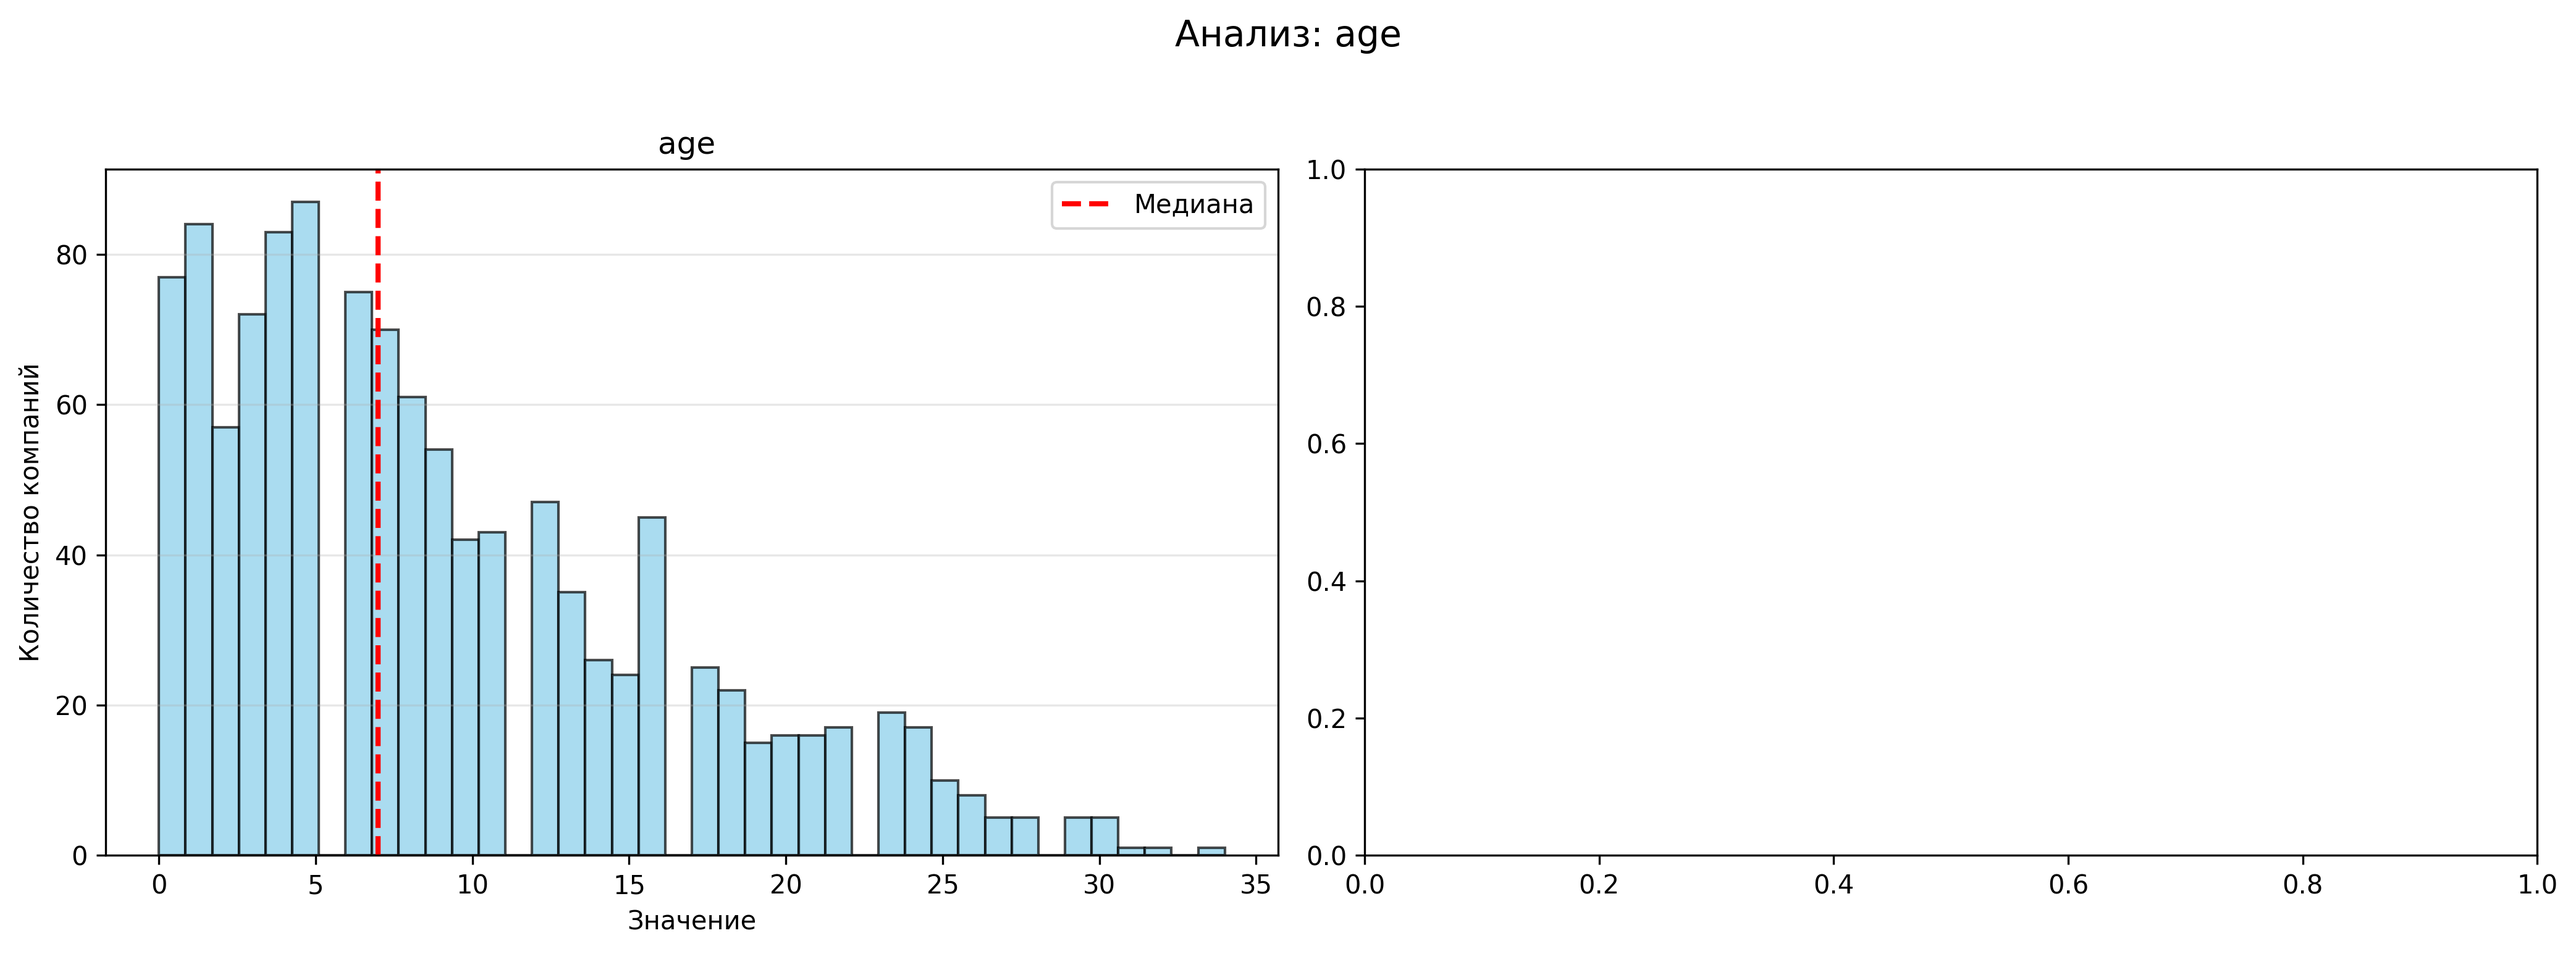
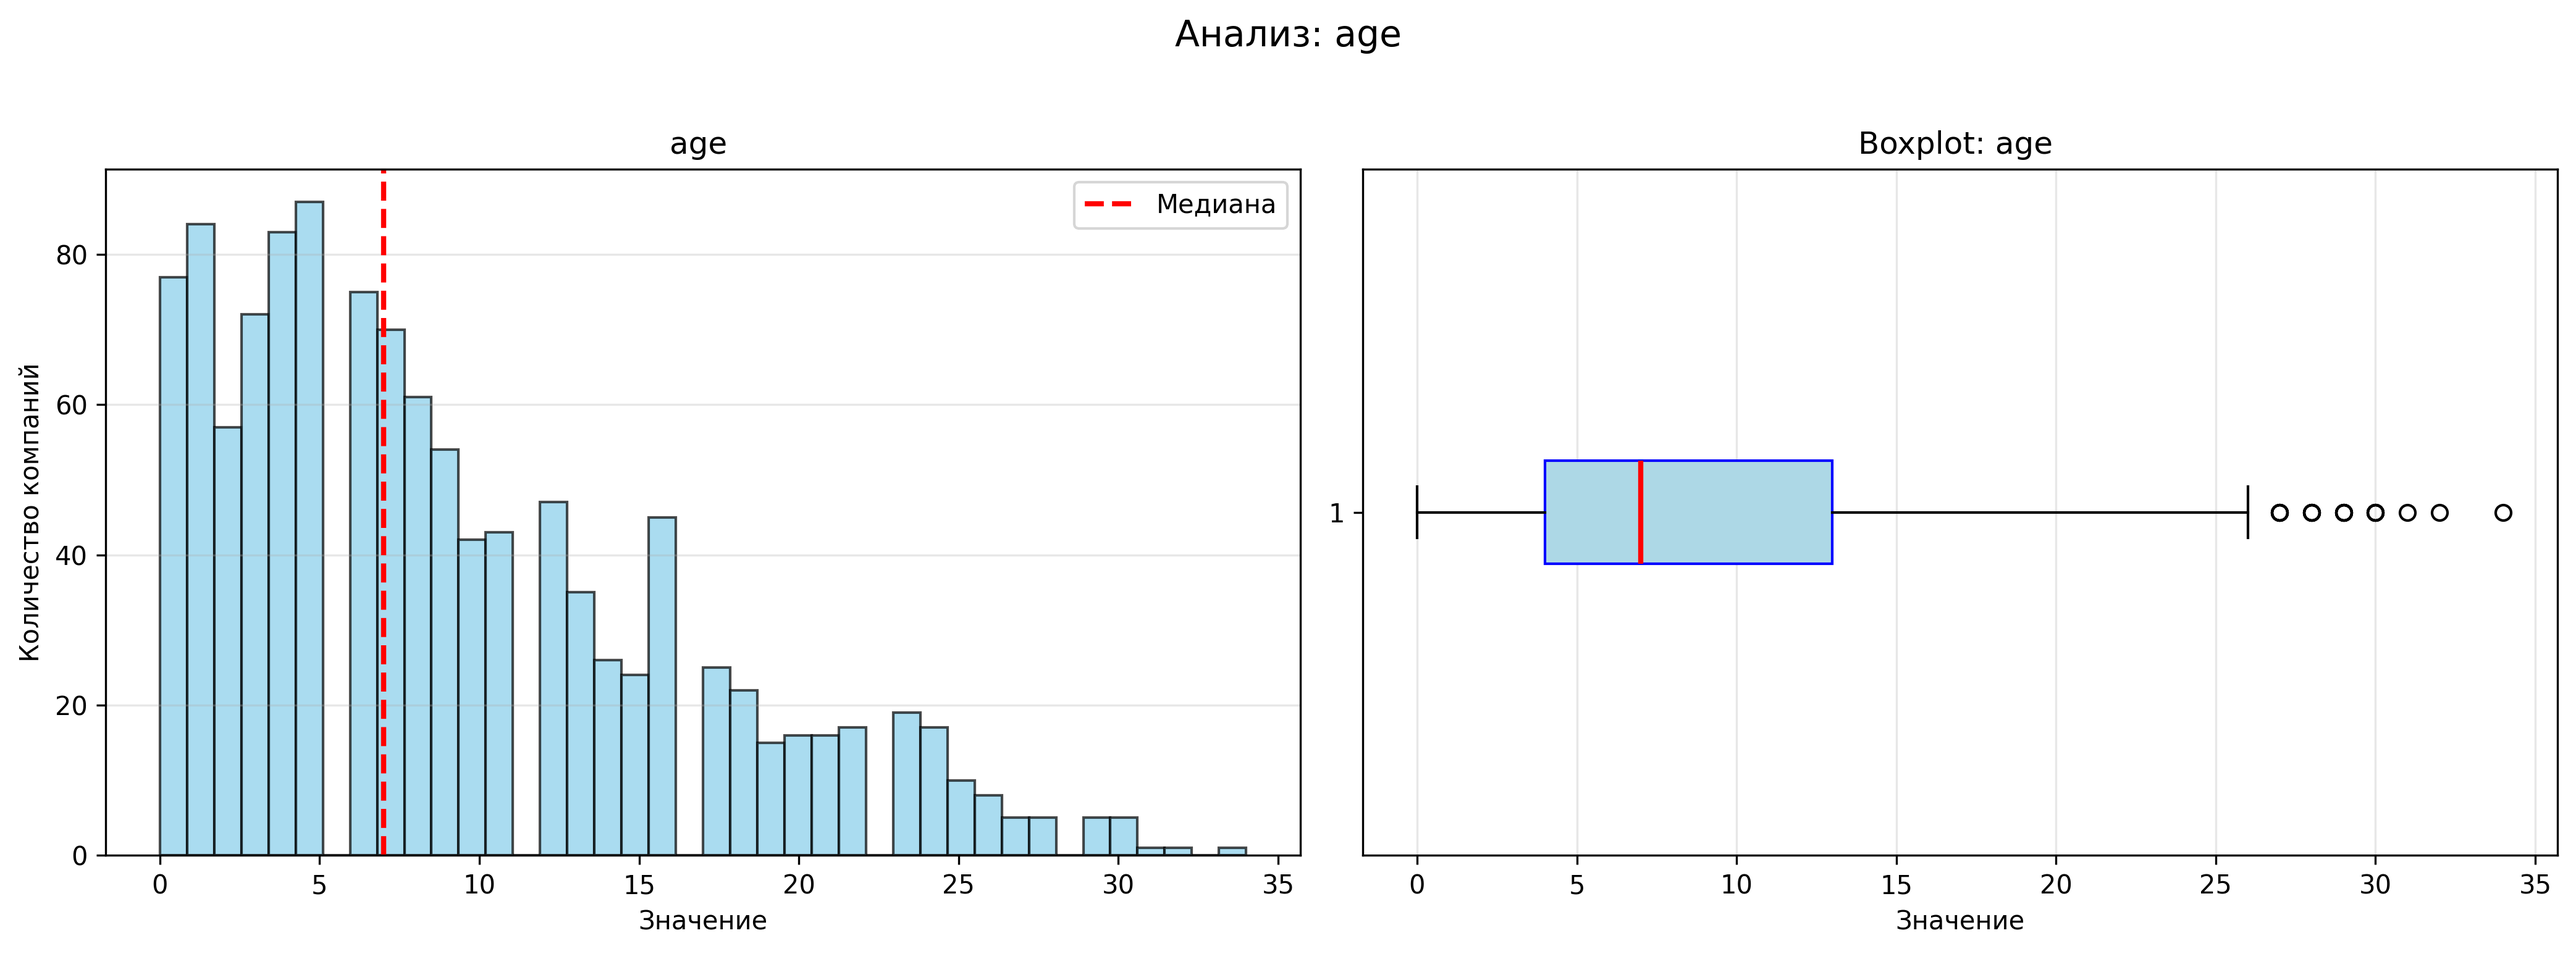
features: Добавил boxplot и отслеживание выбросов в visualization.py

diff --git a/scripts/visualization.py b/scripts/visualization.py
@@ -51,6 +51,17 @@ def plot_histogram(
         ax1.set_ylabel('Количество компаний')
         ax1.legend()
         ax1.grid(axis='y', alpha=0.3)
+        
+    # Boxplot
+    ax2 = axes[1]
+    box_data = data if not use_log else np.log1p(data[data >= 0])
+    if len(box_data) > 0:
+        ax2.boxplot(box_data.dropna(), vert=False, patch_artist=True,
+                   boxprops=dict(facecolor='lightblue', color='blue'),
+                   medianprops=dict(color='red', linewidth=2))
+        ax2.set_title(f'Boxplot: {col} {"(лог)" if use_log else ""}')
+        ax2.set_xlabel('Значение')
+        ax2.grid(axis='x', alpha=0.3)
 
     plt.suptitle(f'Анализ: {col}', fontsize=14, y=1.02)
     plt.tight_layout()
@@ -66,3 +77,23 @@ def plot_histogram(
     plt.show()
     plt.close(fig)
     
+    # ========================== Ищем выбросы (метод IQR) ========================
+    Q1 = data.quantile(0.25)
+    Q3 = data.quantile(0.75)
+    IQR = Q3 - Q1
+    lower_bound = Q1 - 3 * IQR
+    upper_bound = Q3 + 3 * IQR
+
+    outliers = data[(data < lower_bound) | (data > upper_bound)]
+    outlier_pct = len(outliers) / len(data) * 100
+
+    print(f'\nВыбросы в {col}:')
+    print(f'Диапазон нормальных: [{lower_bound:,.0f}; {upper_bound:,.0f}]')
+    print(f'Выбросов: {len(outliers)} шт. ({outlier_pct:.1f}%)')
+
+    if len(outliers) > 0 and len(outliers) <= 5:
+        print(f'Значения: {outliers.tolist()}')
+    elif len(outliers) > 5:
+        print(f'Примеры: {outliers.head(3).tolist()} ...')
+
+    return len(outliers)
